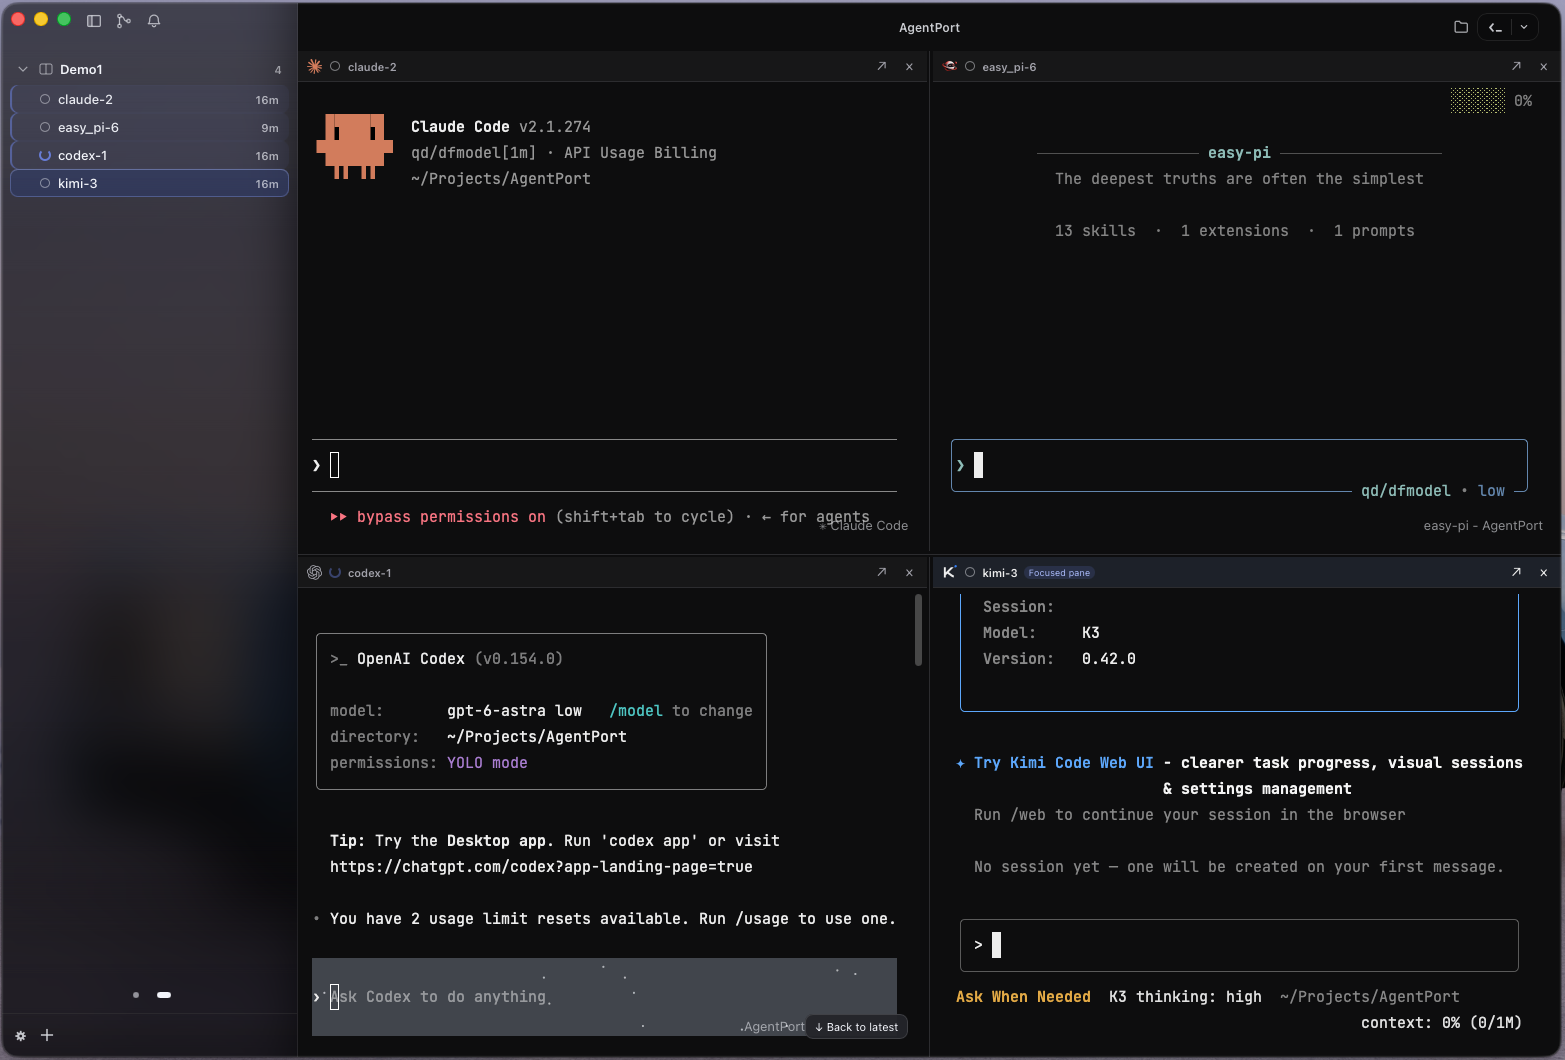
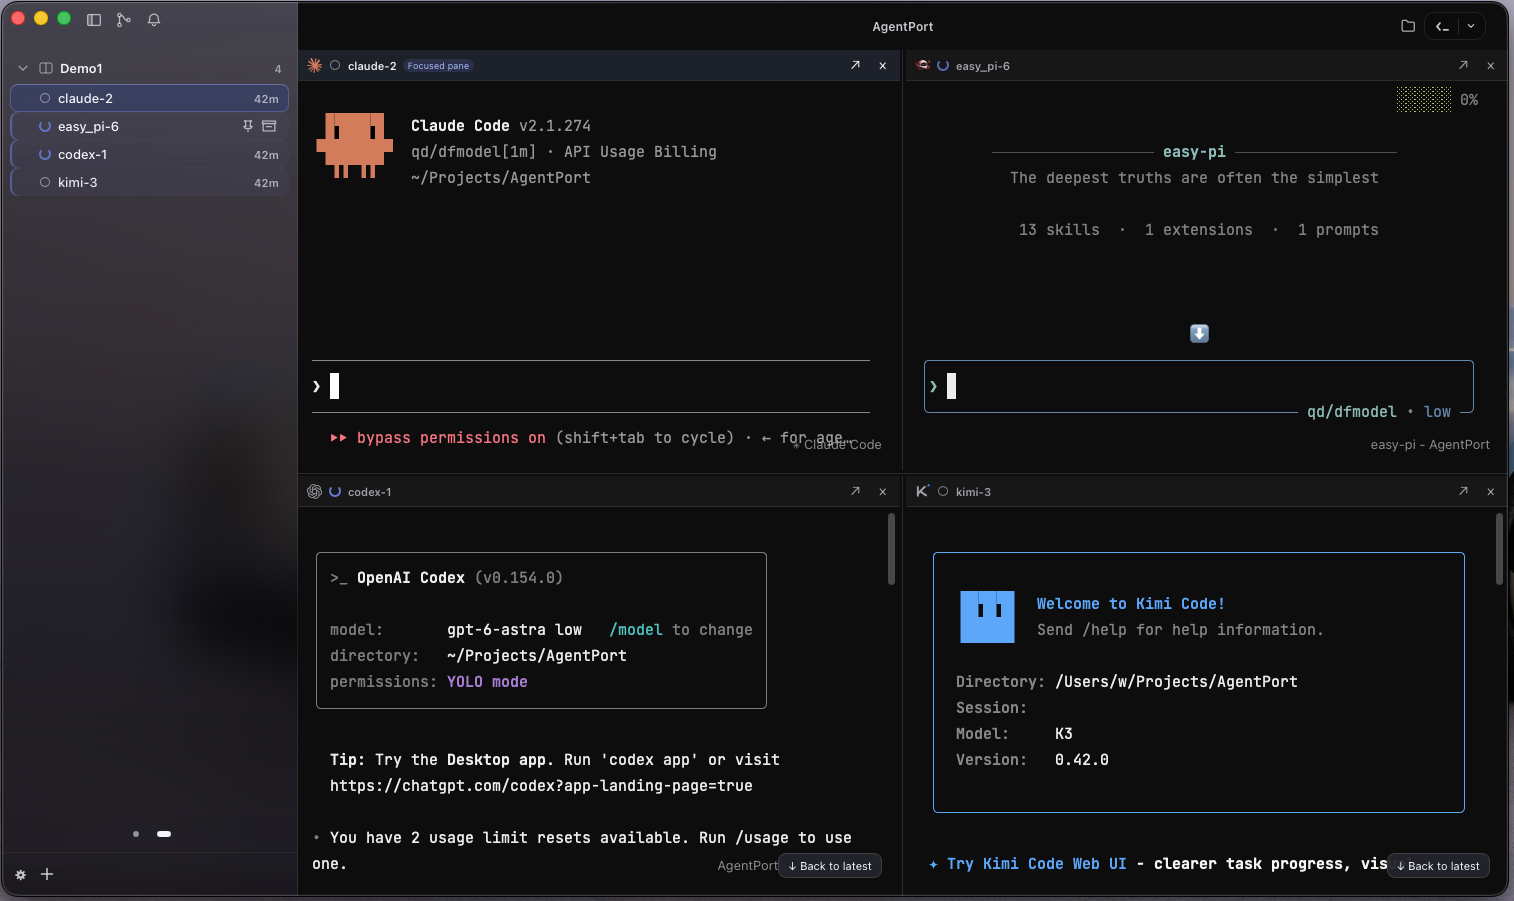
docs(readme): swap in the new main screenshot

diff --git a/README.md b/README.md
@@ -6,7 +6,7 @@ AgentPort 是 macOS 与 Linux 上的本地 AI CLI 工作台：把 Claude Code、
 
 ![AgentPort 主界面：一个窗口内四个 Agent 会话分屏运行](docs/assets/hero.png)
 
-<sub>左侧是项目与 Session 侧栏，右侧工作区同时监看四个会话 —— Claude Code、easy-pi、Codex、Kimi 各占一个窗格，互不干扰。</sub>
+<sub>左侧是项目与 Session 侧栏，右侧工作区同时监看四个会话 —— Claude Code、easy-pi、Codex、Kimi 各占一个窗格，互不干扰；左上角是当前聚焦的分屏。</sub>
 
 [![Release](https://img.shields.io/github/v/release/yiwen65/AgentPort)](https://github.com/yiwen65/AgentPort/releases/latest)
 
